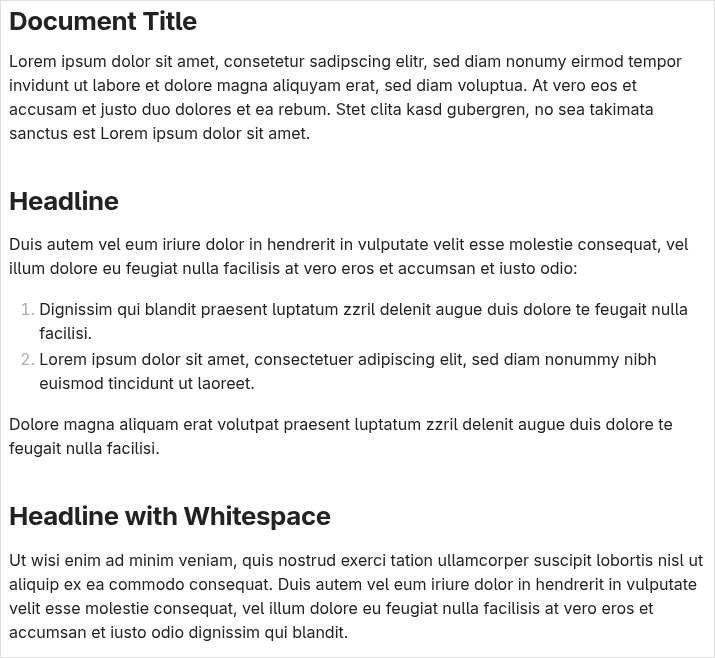
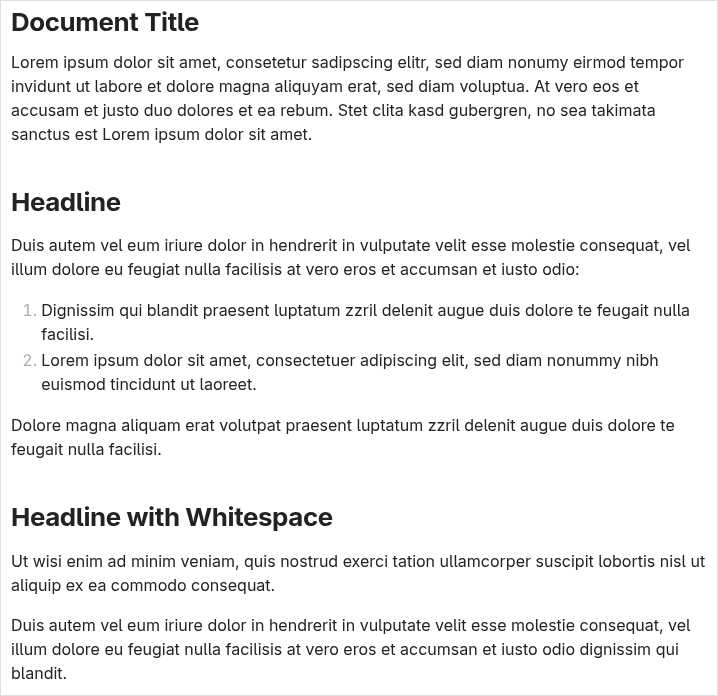
Improvements related to the README
1.  Split a singleton paragraph in the sample code into two separate
    paragraphs.  Here, it can be seen how Obsidian-Typo handles
    paragraph separations.

    All Demo pictures have been regenerated to implement this change.

    I've changed the text width of the md code in the README to match
    the width of the rest of the README file.

2.  Language adaption in the *Installation* section.

Changed region(s): [[0.0, 0.2736, 0.9538, 0.6991], [0.0, 0.7295, 0.9846, 0.9726], [0.0, 0.0, 0.9538, 0.2128]]

diff --git a/README.rst b/README.rst
@@ -50,30 +50,30 @@ The following Markdown code is to be displayed by Obsidian:
 
 .. code:: markdown
 
-    Lorem ipsum dolor sit amet, consetetur sadipscing elitr, sed diam nonumy eirmod
-    tempor invidunt ut labore et dolore magna aliquyam erat, sed diam voluptua.  At
-    vero eos et accusam et justo duo dolores et ea rebum. Stet clita kasd
-    gubergren, no sea takimata sanctus est Lorem ipsum dolor sit amet.
-    # Headline
-    Duis autem vel eum iriure dolor in hendrerit in vulputate velit esse molestie
-    consequat, vel illum dolore eu feugiat nulla facilisis at vero eros et accumsan
-    et iusto odio:
+    Lorem ipsum dolor sit amet, consetetur sadipscing elitr, sed diam
+    nonumy eirmod tempor invidunt ut labore et dolore magna aliquyam erat,
+    sed diam voluptua.  At vero eos et accusam et justo duo dolores et ea
+    rebum. Stet clita kasd gubergren, no sea takimata sanctus est Lorem
+    ipsum dolor sit amet.  # Headline Duis autem vel eum iriure dolor in
+    hendrerit in vulputate velit esse molestie consequat, vel illum dolore
+    eu feugiat nulla facilisis at vero eros et accumsan et iusto odio:
 
-    1. Dignissim qui blandit praesent luptatum zzril delenit augue duis dolore te
-       feugait nulla facilisi.
-    2. Lorem ipsum dolor sit amet, consectetuer adipiscing elit, sed diam nonummy
-       nibh euismod tincidunt ut laoreet.
+    1. Dignissim qui blandit praesent luptatum zzril delenit augue duis
+       dolore te feugait nulla facilisi.
+    2. Lorem ipsum dolor sit amet, consectetuer adipiscing elit, sed diam
+       nonummy nibh euismod tincidunt ut laoreet.
 
-    Dolore magna aliquam erat volutpat praesent luptatum zzril delenit augue duis
-    dolore te feugait nulla facilisi.
+    Dolore magna aliquam erat volutpat praesent luptatum zzril delenit
+    augue duis dolore te feugait nulla facilisi.
 
     # Headline with Whitespace
 
-    Ut wisi enim ad minim veniam, quis nostrud exerci tation ullamcorper suscipit
-    lobortis nisl ut aliquip ex ea commodo consequat. Duis autem vel eum iriure
-    dolor in hendrerit in vulputate velit esse molestie consequat, vel illum dolore
-    eu feugiat nulla facilisis at vero eros et accumsan et iusto odio dignissim qui
-    blandit.
+    Ut wisi enim ad minim veniam, quis nostrud exerci tation ullamcorper
+    suscipit lobortis nisl ut aliquip ex ea commodo consequat.
+
+    Duis autem vel eum iriure dolor in hendrerit in vulputate velit esse
+    molestie consequat, vel illum dolore eu feugiat nulla facilisis at vero
+    eros et accumsan et iusto odio dignissim qui blandit.
 
 Here, additional linebreaks have been added to keep the MD code readable
 without horizontal overflow.  In the file which is actually *used* for this
@@ -125,16 +125,16 @@ Installation
 
 *Obsidian-Typo* is provided as a set of CSS snippets which can be installed
 to a given Obsidian Vault.  These CSS snippets are located in the ``CSS``
-folder, which is located directly besides of this README in the
+folder, which is located directly besides of this README in the root of the
 *Obsidian-Typo* repository.
 
-Each Obsidian Vault carries a dot-directory ``.obsidian`` in its root
+Each Obsidian vault carries a dot-directory ``.obsidian`` in its root
 directory.  CSS snippets like those provided by *Obsidian-Typo* are
 installed to a subfolder ``snippets`` of the ``.obsidian`` folder.  When
 the vault in question exists in ``/path/to/vault/``, the corresponding
 directory is ``/path/to/vault/.obsidian/snippets/``.  Notice that the
-``snippets`` folder does not exist in the beginning of each vault's life,
-it needs to be created once.
+``snippets`` folder does not exist in newly created Obsidian vaults in the
+beginning, it needs to be created once.
 
 After having installed the CSS snippets, they need to be *enabled* in the
 *Appearance* pane of the vault's settings in Obsidian.  The switches used

diff --git a/Demo/Code.md b/Demo/Code.md
@@ -9,4 +9,6 @@ Dolore magna aliquam erat volutpat praesent luptatum zzril delenit augue duis do
 
 # Headline with Whitespace
 
-Ut wisi enim ad minim veniam, quis nostrud exerci tation ullamcorper suscipit lobortis nisl ut aliquip ex ea commodo consequat. Duis autem vel eum iriure dolor in hendrerit in vulputate velit esse molestie consequat, vel illum dolore eu feugiat nulla facilisis at vero eros et accumsan et iusto odio dignissim qui blandit.
+Ut wisi enim ad minim veniam, quis nostrud exerci tation ullamcorper suscipit lobortis nisl ut aliquip ex ea commodo consequat.
+
+Duis autem vel eum iriure dolor in hendrerit in vulputate velit esse molestie consequat, vel illum dolore eu feugiat nulla facilisis at vero eros et accumsan et iusto odio dignissim qui blandit.
